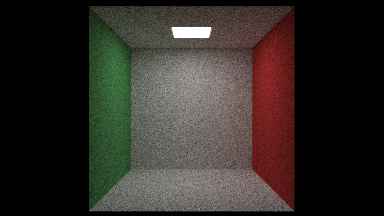
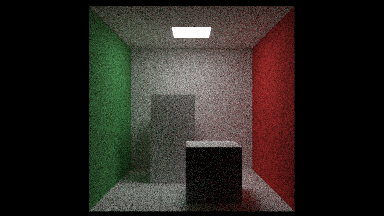
Add box

Changed region(s): [[0.2188, 0.0278, 0.7812, 1.0]]

diff --git a/code/Rect.cs b/code/Rect.cs
@@ -4,7 +4,7 @@ namespace RayTracingInOneWeekend {
 
     public class XYRect : Hittable
     {
-        public XYRect(in Vector2 min, in Vector2 max, float k, in Material material)
+        public XYRect(in Vector3 min, in Vector3 max, float k, in Material material)
         {
             this.min = min;
             this.max = max;
@@ -31,15 +31,15 @@ namespace RayTracingInOneWeekend {
             return true;
         }
 
-        private readonly Vector2 min;
-        private readonly Vector2 max;
+        private readonly Vector3 min;
+        private readonly Vector3 max;
         private readonly float k;
         private readonly Material material;
     }
 
     public class XZRect : Hittable
     {
-        public XZRect(in Vector2 min, in Vector2 max, float k, in Material material)
+        public XZRect(in Vector3 min, in Vector3 max, float k, in Material material)
         {
             this.min = min;
             this.max = max;
@@ -54,7 +54,7 @@ namespace RayTracingInOneWeekend {
                 return false;
 
             Vector3 p = ray.at(t);
-            if (p.X < min.X || p.X > max.X || p.Z < min.Y || p.Z > max.Y)
+            if (p.X < min.X || p.X > max.X || p.Z < min.Z || p.Z > max.Z)
                 return false;
             
             // uv
@@ -66,15 +66,15 @@ namespace RayTracingInOneWeekend {
             return true;
         }
 
-        private readonly Vector2 min;
-        private readonly Vector2 max;
+        private readonly Vector3 min;
+        private readonly Vector3 max;
         private readonly float k;
         private readonly Material material;
     }
 
     public class YZRect : Hittable
     {
-        public YZRect(in Vector2 min, in Vector2 max, float k, in Material material)
+        public YZRect(in Vector3 min, in Vector3 max, float k, in Material material)
         {
             this.min = min;
             this.max = max;
@@ -89,7 +89,7 @@ namespace RayTracingInOneWeekend {
                 return false;
 
             Vector3 p = ray.at(t);
-            if (p.Y < min.X || p.Y > max.X || p.Z < min.Y || p.Z > max.Y )
+            if (p.Y < min.Y || p.Y > max.Y || p.Z < min.Z || p.Z > max.Z )
                 return false;
             
             // uv
@@ -101,8 +101,8 @@ namespace RayTracingInOneWeekend {
             return true;
         }
 
-        private readonly Vector2 min;
-        private readonly Vector2 max;
+        private readonly Vector3 min;
+        private readonly Vector3 max;
         private readonly float k;
         private readonly Material material;
     }

diff --git a/code/Main.cs b/code/Main.cs
@@ -40,12 +40,15 @@ namespace RayTracingInOneWeekend
             var light = new DiffuseLight(new SolidColor(15.0f));
 
             float s = 555.0f;
-            world.add(new YZRect(Vector2.Zero, s * Vector2.One, s, green));
-            world.add(new YZRect(Vector2.Zero, s * Vector2.One, 0.0f, red));
-            world.add(new XZRect(Vector2.Zero, s * Vector2.One, s, white));
-            world.add(new XZRect(Vector2.Zero, s * Vector2.One, 0.0f, white));
-            world.add(new XYRect(Vector2.Zero, s * Vector2.One, s, white));
-            world.add(new XZRect(new Vector2(213.0f), new Vector2(343.0f), s - 1, light));
+            world.add(new YZRect(Vector3.Zero, s * Vector3.One, s, green));
+            world.add(new YZRect(Vector3.Zero, s * Vector3.One, 0.0f, red));
+            world.add(new XZRect(Vector3.Zero, s * Vector3.One, s, white));
+            world.add(new XZRect(Vector3.Zero, s * Vector3.One, 0.0f, white));
+            world.add(new XYRect(Vector3.Zero, s * Vector3.One, s, white));
+            world.add(new XZRect(new Vector3(213.0f), new Vector3(343.0f), s - 1, light));
+
+            world.add(new Box(new Vector3(130.0f, 0.0f, 65.0f), new Vector3(295.0f, 165.0f, 230.0f), white));
+            world.add(new Box(new Vector3(265.0f, 0.0f, 295.0f), new Vector3(430.0f, 330.0f, 460.0f), white));
 
             return world;
         }
@@ -55,8 +58,8 @@ namespace RayTracingInOneWeekend
             const float aspectRatio = 16.0f / 9.0f;
             const int imageWidth = 384;
             const int imageHeight = (int)(imageWidth / aspectRatio);
-            const int samplesPerPixel = 1000;
-            const int maxDepth = 50;
+            const int samplesPerPixel = 500;
+            const int maxDepth = 30;
 
             const int component = 3;
             const int stride = component * imageWidth;

diff --git a/code/Box.cs b/code/Box.cs
@@ -1,0 +1,31 @@
+using System.Numerics;
+
+namespace RayTracingInOneWeekend {
+
+    public class Box : Hittable
+    {
+        public Box(in Vector3 min, in Vector3 max, in Material mat)
+        {
+            this.min = min;
+            this.max = max;
+            sides = new HittableList();
+            sides.add(new XYRect(min, max, min.Z, mat));
+            sides.add(new XYRect(min, max, max.Z, mat));
+            sides.add(new XZRect(min, max, min.Y, mat));
+            sides.add(new XZRect(min, max, max.Y, mat));
+            sides.add(new YZRect(min, max, min.X, mat));
+            sides.add(new YZRect(min, max, max.X, mat));
+        }
+
+        public override bool hit(in Ray ray, float tMin, float tMax, ref HitRecord record)
+        {
+            return sides.hit(ray, tMin, tMax, ref record);
+        }
+
+        private readonly Vector3 min;
+        private readonly Vector3 max;
+        private readonly Material material;
+        private readonly HittableList sides;
+    }
+
+}
